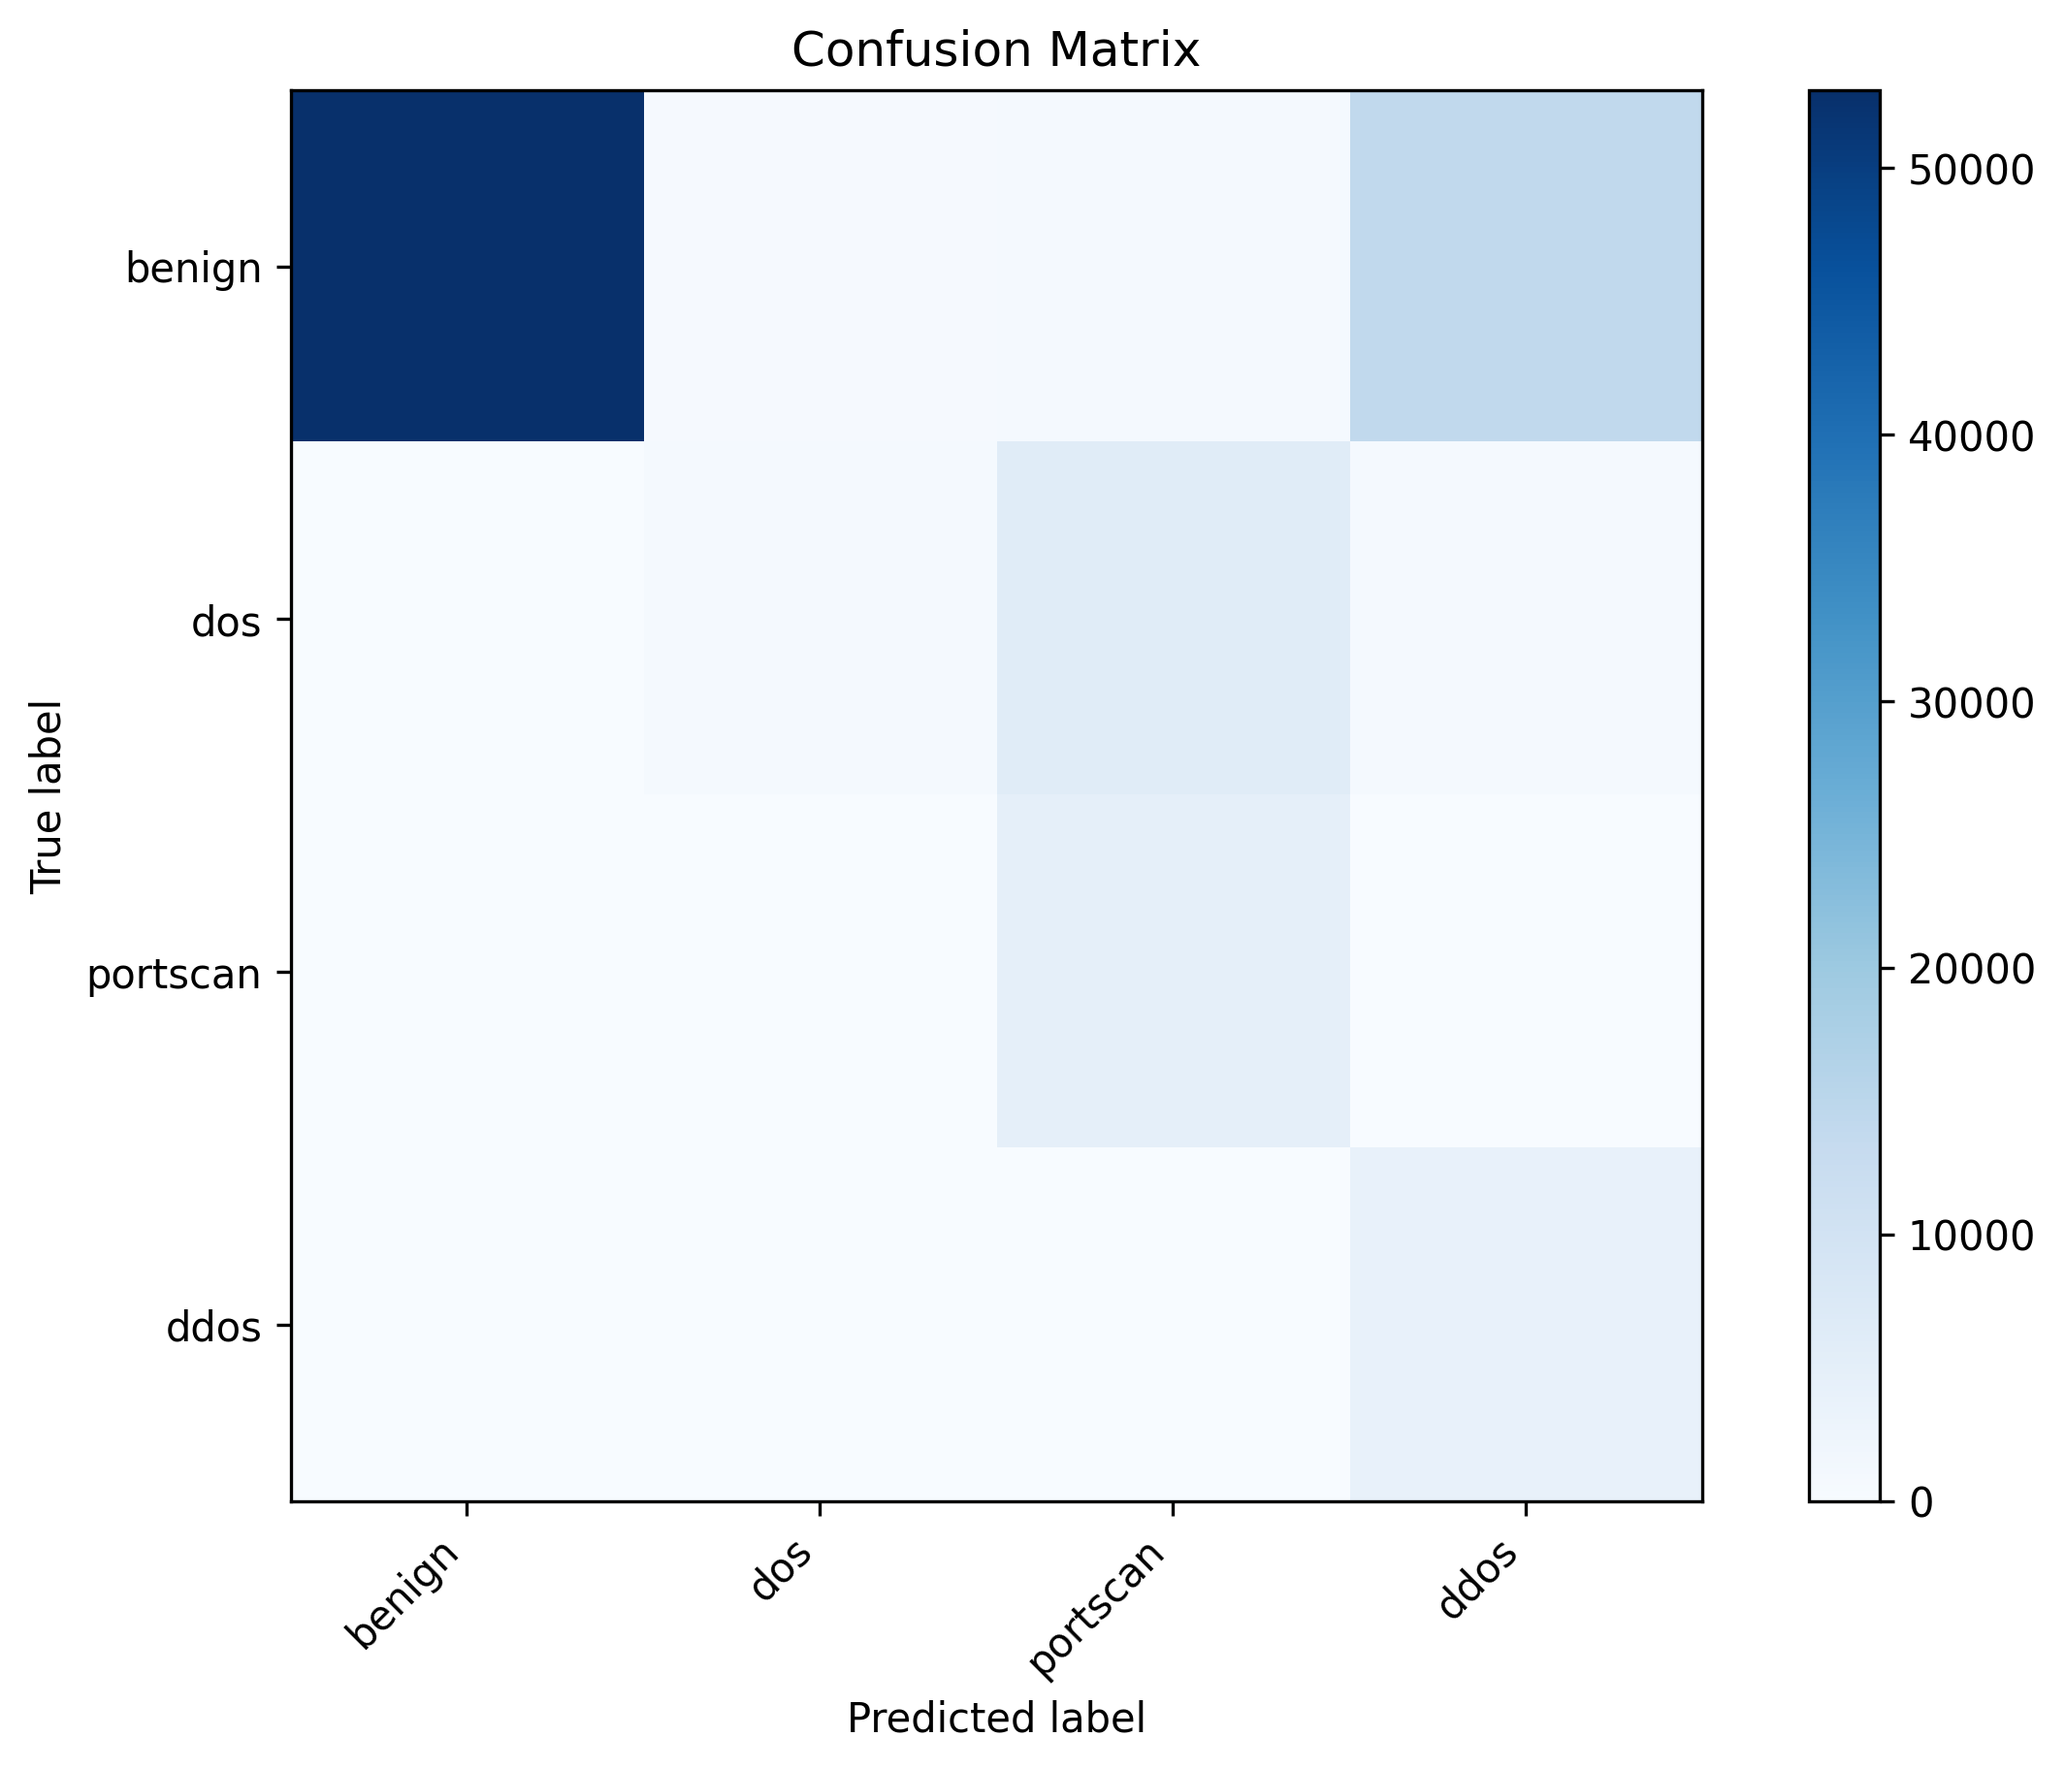
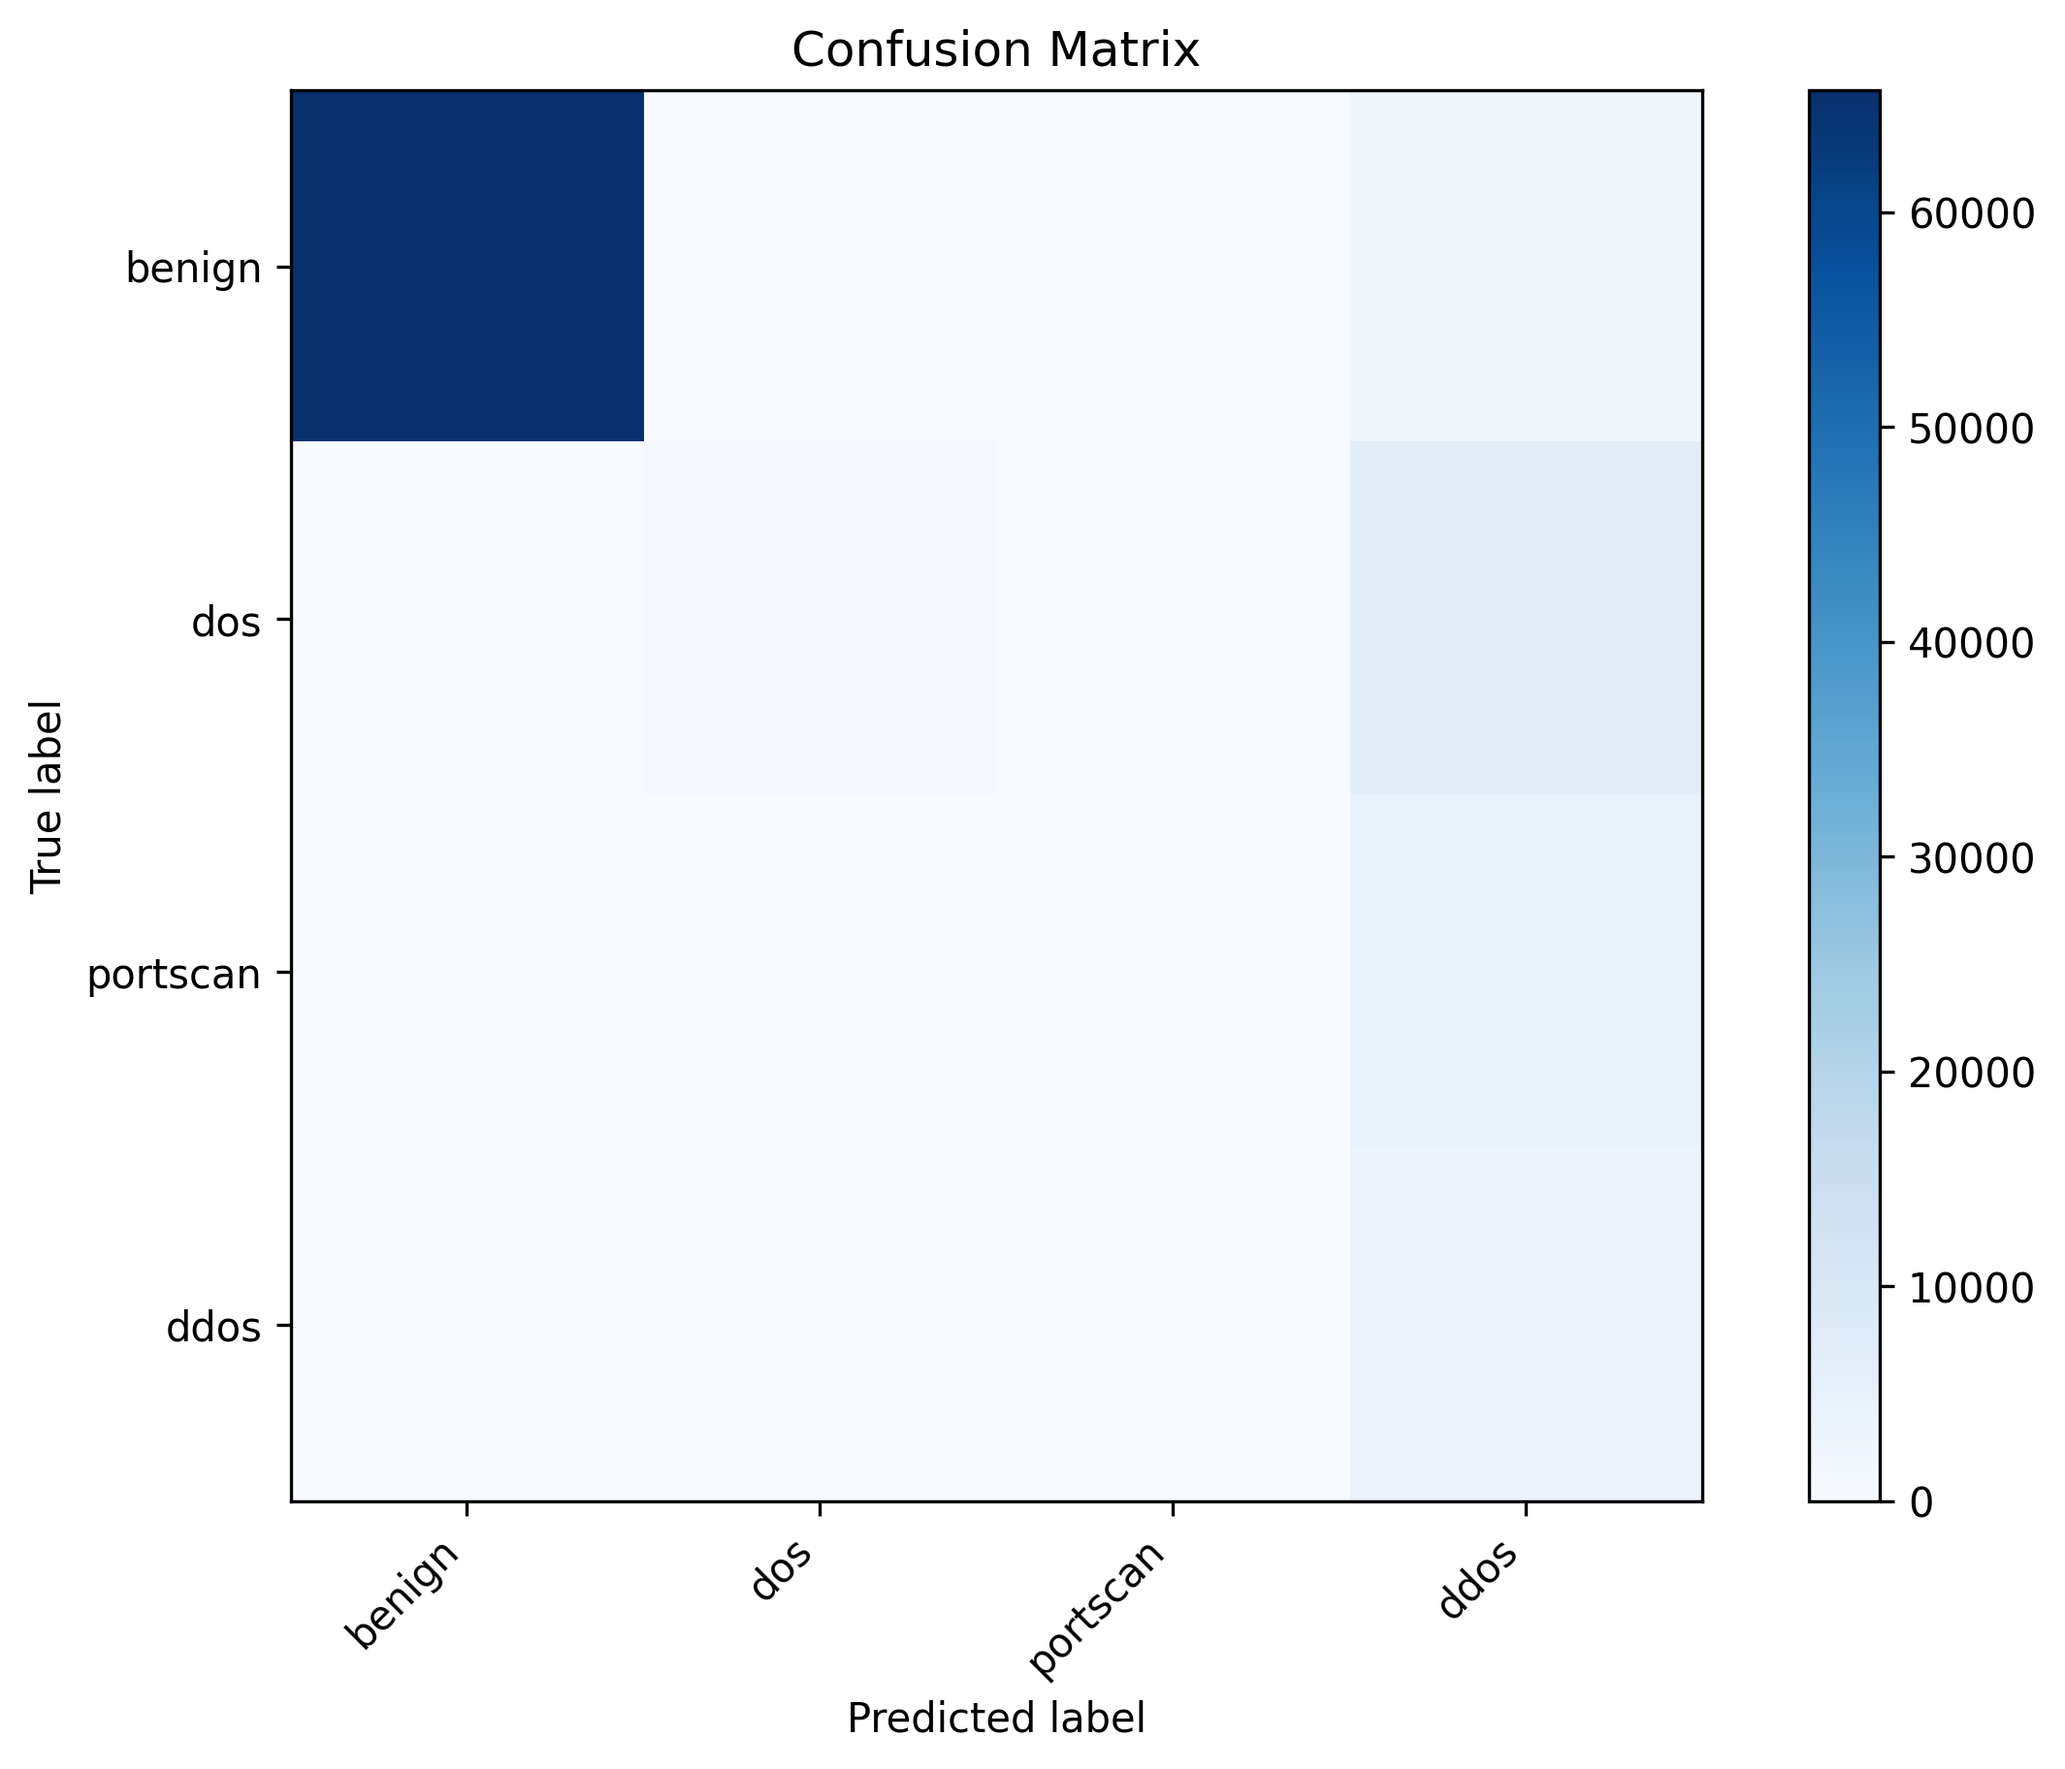
ER fixing forgetting measure computation

diff --git a/src/er.py b/src/er.py
@@ -9,6 +9,7 @@ from torch.utils.data import DataLoader, Subset
 from src.dataset import UNSWDataset
 from src.utils import print_task_results, print_strategy, print_scenario, print_final_metrics, save_training_results
 from src.metrics import accuracy, macro_f1, compute_cm, save_confusion_matrix, average_accuracy
+from src.icarl.metrics import compute_forgetting
 from src.model import CILModel
 from src.task_builder import UpToNormalizer, build_scenario, build_task
 
@@ -216,6 +217,8 @@ def train_and_evaluate_ER(
 
     accuracy_matrix = [[0]*num_tasks for _ in range(num_tasks)]
     attack_accuracy_matrix = [[0]*num_tasks for _ in range(num_tasks)]
+    per_task_accuracy_history = [[0]*num_tasks for _ in range(num_tasks)]
+    per_task_attack_accuracy_history = [[0]*num_tasks for _ in range(num_tasks)]
     f1_history = []
 
     # =========================
@@ -281,9 +284,9 @@ def train_and_evaluate_ER(
             class_weights
         )
 
-        # -------------------------
+        # =========================
         # Evaluate on seen tasks
-        # -------------------------
+        # =========================
         for prev_index in range(task_index + 1):
 
             prev_classes = tasks[prev_index]
@@ -297,9 +300,15 @@ def train_and_evaluate_ER(
                 device
             )
 
+            # Per-task accuracy
+            per_task_accuracy_history[task_index][prev_index] = acc
+            per_task_attack_accuracy_history[task_index][prev_index] = acc_attack
+
+            # Cumulative accuracy matrix
             accuracy_matrix[task_index][prev_index] = acc
             attack_accuracy_matrix[task_index][prev_index] = acc_attack
 
+            # Print only for current task
             if prev_index == task_index:
                 seen_classes = []
                 for t in tasks[:task_index+1]:
@@ -341,22 +350,18 @@ def train_and_evaluate_ER(
     forgetting_values = []
     forgetting_attack_values = []
 
-    for t in range(num_tasks - 1):
-        max_past = max(accuracy_matrix[i][t] for i in range(num_tasks))
-        final_perf = accuracy_matrix[num_tasks-1][t]
-        forgetting_values.append(max_past - final_perf)
+    #TODO use Margarita's function for forgetting
 
-        max_past_attack = max(attack_accuracy_matrix[i][t] for i in range(num_tasks))
-        final_perf_attack = attack_accuracy_matrix[num_tasks-1][t]
-        forgetting_attack_values.append(max_past_attack - final_perf_attack)
-
-    forgetting = np.mean(forgetting_values)
-    forgetting_attack = np.mean(forgetting_attack_values)
+    forgetting = compute_forgetting(accuracy_matrix)
+    forgetting_attack = compute_forgetting(attack_accuracy_matrix)
 
     print_final_metrics(forgetting, forgetting_attack, avg_acc, avg_attack_acc)
 
-    #TODO accuracy_attack_matrix 
-    accuracy_attack_matrix = []
+    print("accuracy matrix")
+    print(accuracy_matrix)
 
-    save_training_results(dataset_name, "ER", attack_pattern, accuracy_matrix, accuracy_attack_matrix,
+    print("\nattack accuracy matrix")
+    print(attack_accuracy_matrix)
+
+    save_training_results(dataset_name, "ER", attack_pattern, accuracy_matrix, attack_accuracy_matrix,
         avg_acc, avg_attack_acc, forgetting, forgetting_attack, output_path)
